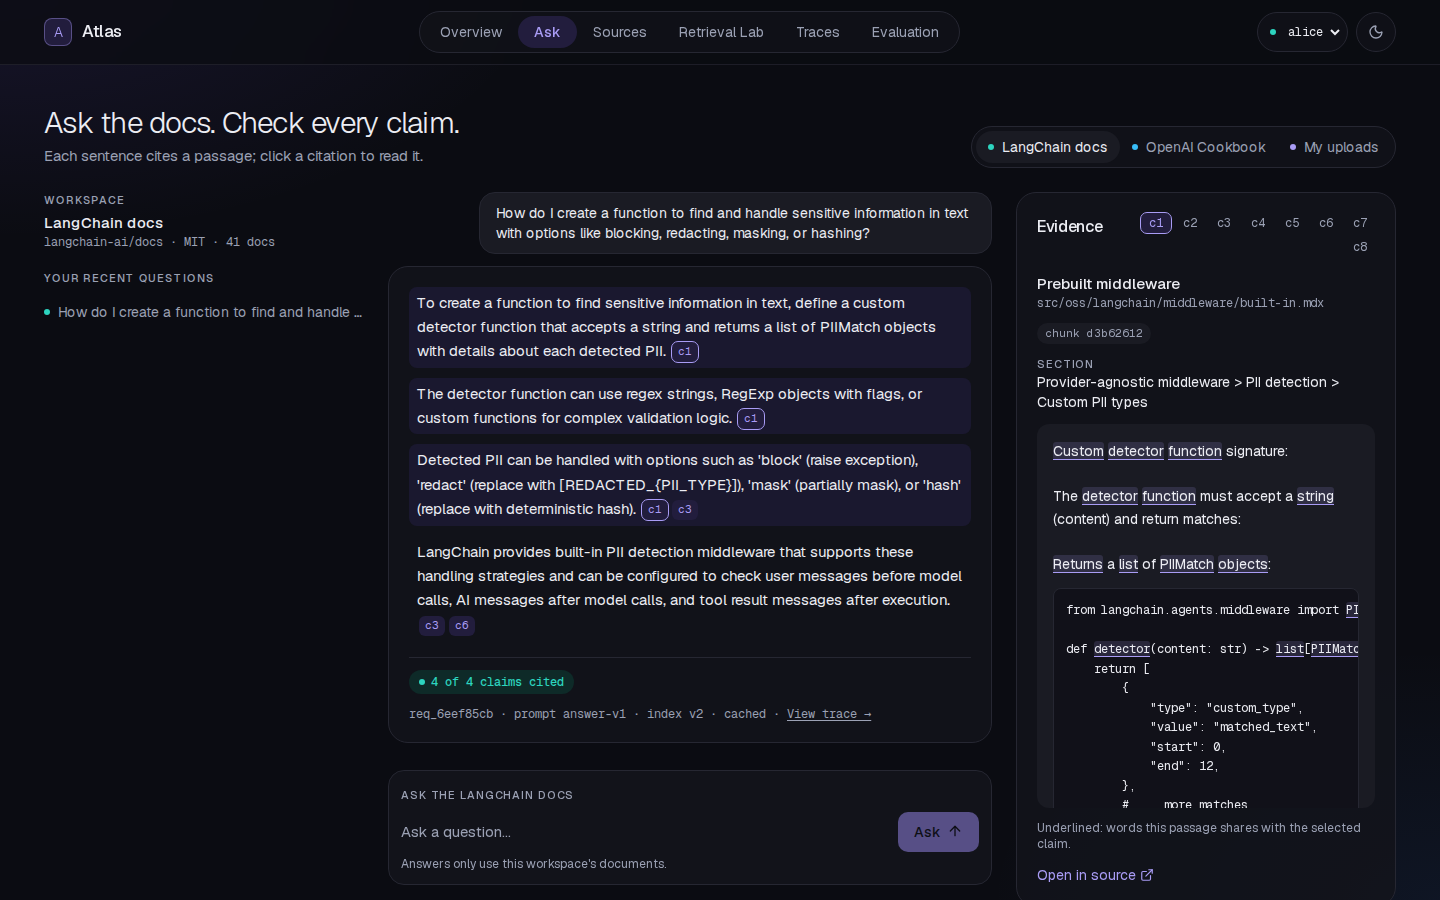
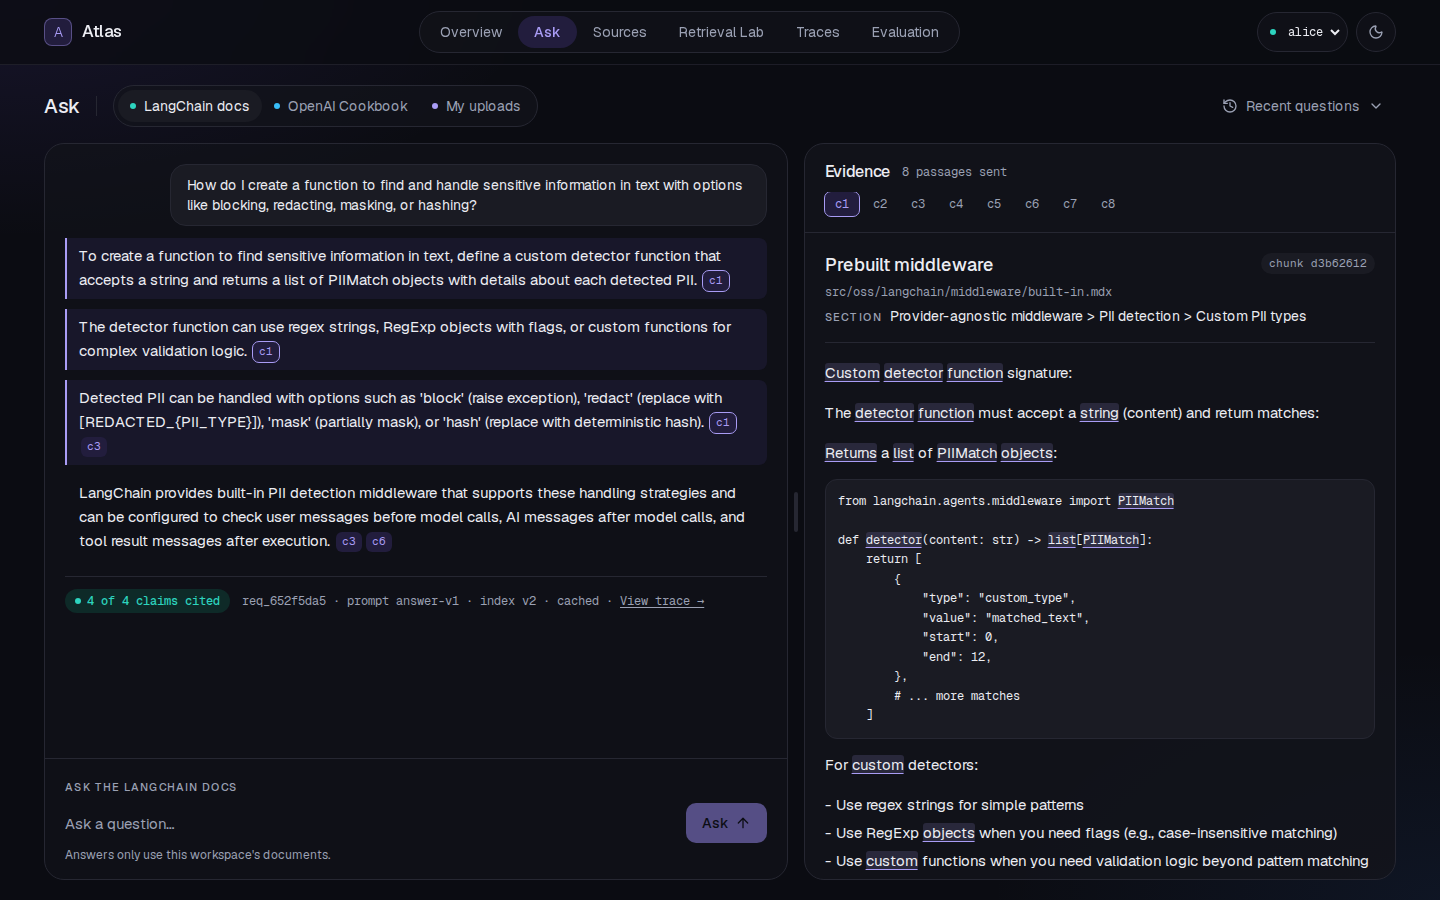
Add Ask concept D and refresh the Ask screenshots
- Stitch concept D (split reader), chosen by the owner, with its screen id
- README Ask images show the new layout

diff --git a/design/stitch/README.md b/design/stitch/README.md
@@ -91,3 +91,13 @@ More invented details to drop in the build: "LIVE FEED", "Pending sync", "+22% /
 Images are stored at 1440 px wide (phone screens at 780 px) with a 256-color palette to keep the repo small.
 
 Downloads: a small local script reads the Stitch API key from the local MCP config and saves each screenshot by file id, so large images never pass through the chat.
+
+## Ask redesign, concept D "Split reader" (3 Nov 2026)
+The owner found two problems on the built Ask page: the whole page scrolled with the answers, and the evidence column was squished (380 px, a second scrollbar inside it). Two layouts were generated; the owner picked D.
+
+| Concept | Screen id | PNG |
+|---|---|---|
+| D: split reader (chosen). Page fills the viewport; conversation 55% and evidence 45% with a draggable divider; recent questions move to a menu | `586463dfd2aa4a2eb1282c5c9107e0bf` | `concepts/ask-D-split-reader-dark.png` |
+| E: reading column + evidence drawer (not chosen) | `f86c0077bab74278af184459066c6dcf` | — |
+
+Invented by Stitch, not used in the build: the "exact_id" tag on the passage, "⌘ + Enter to send", "Synthesized answer" label.
